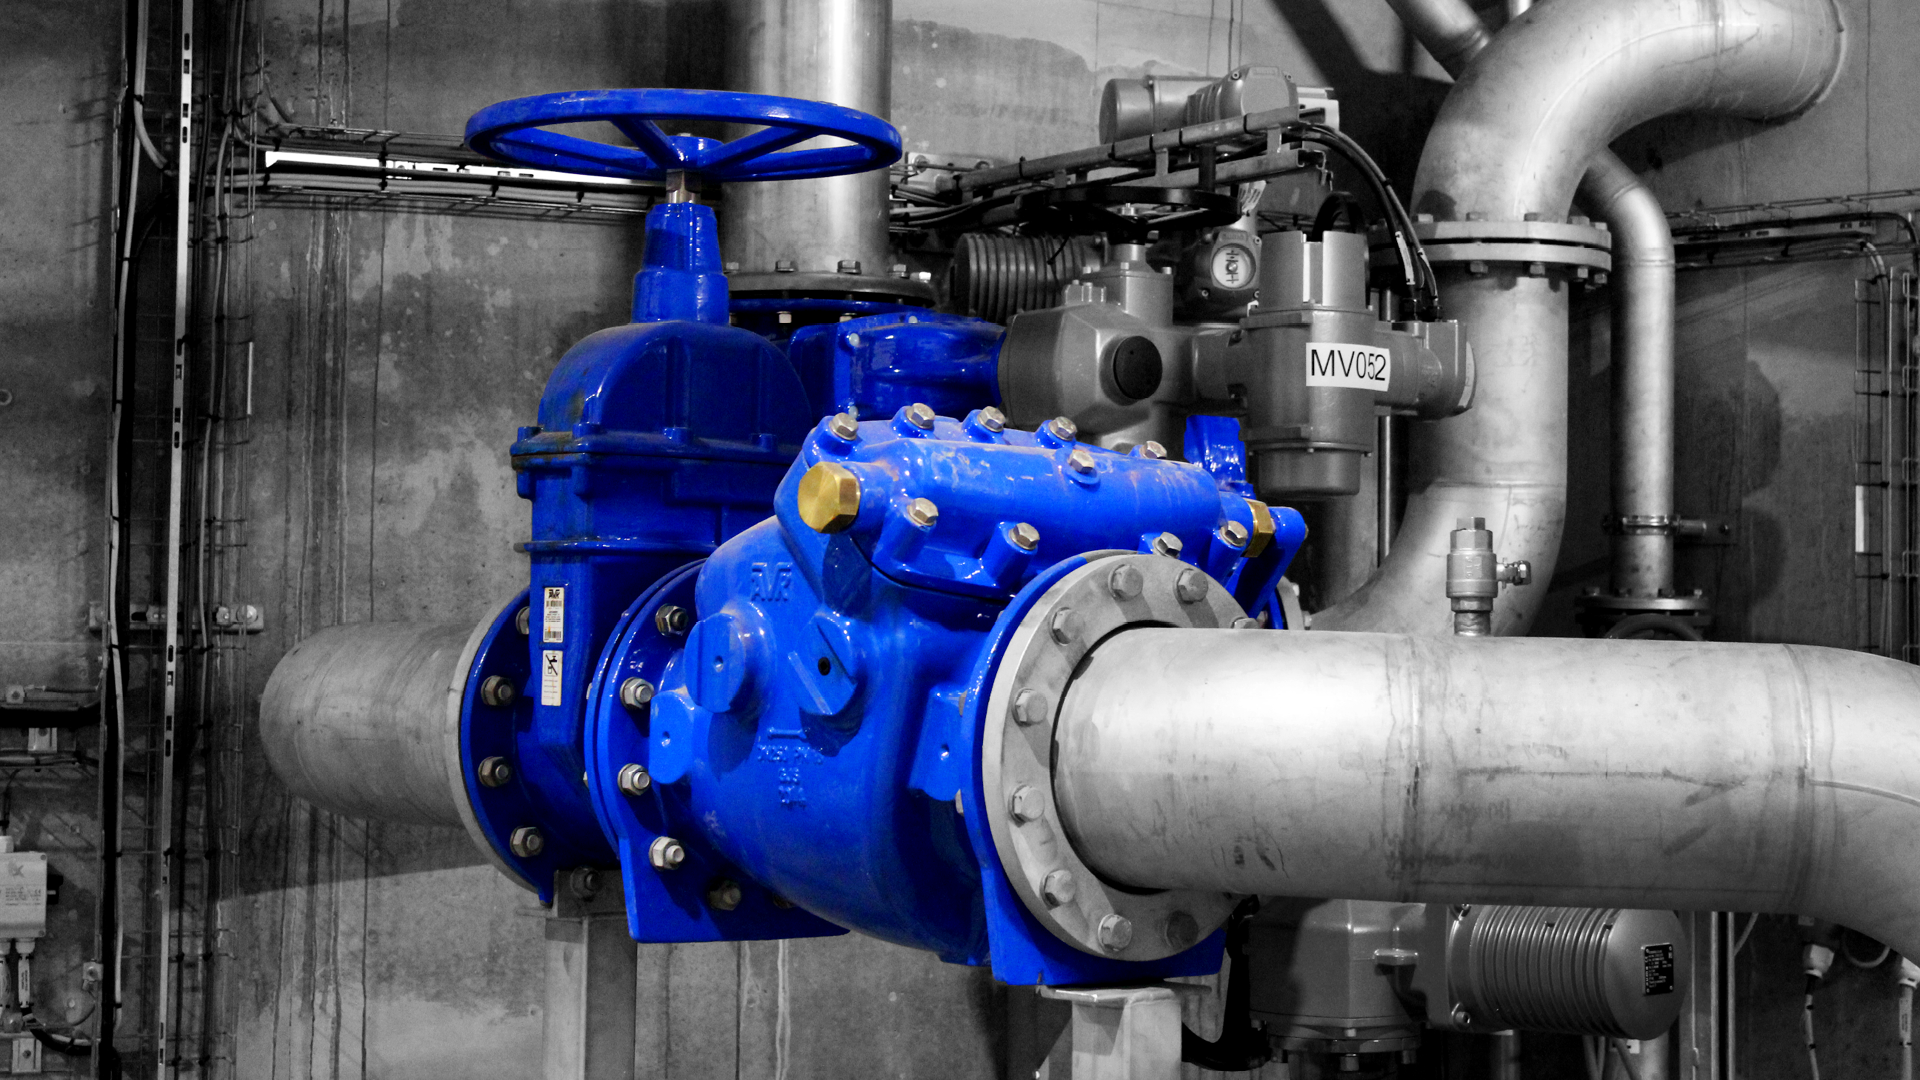
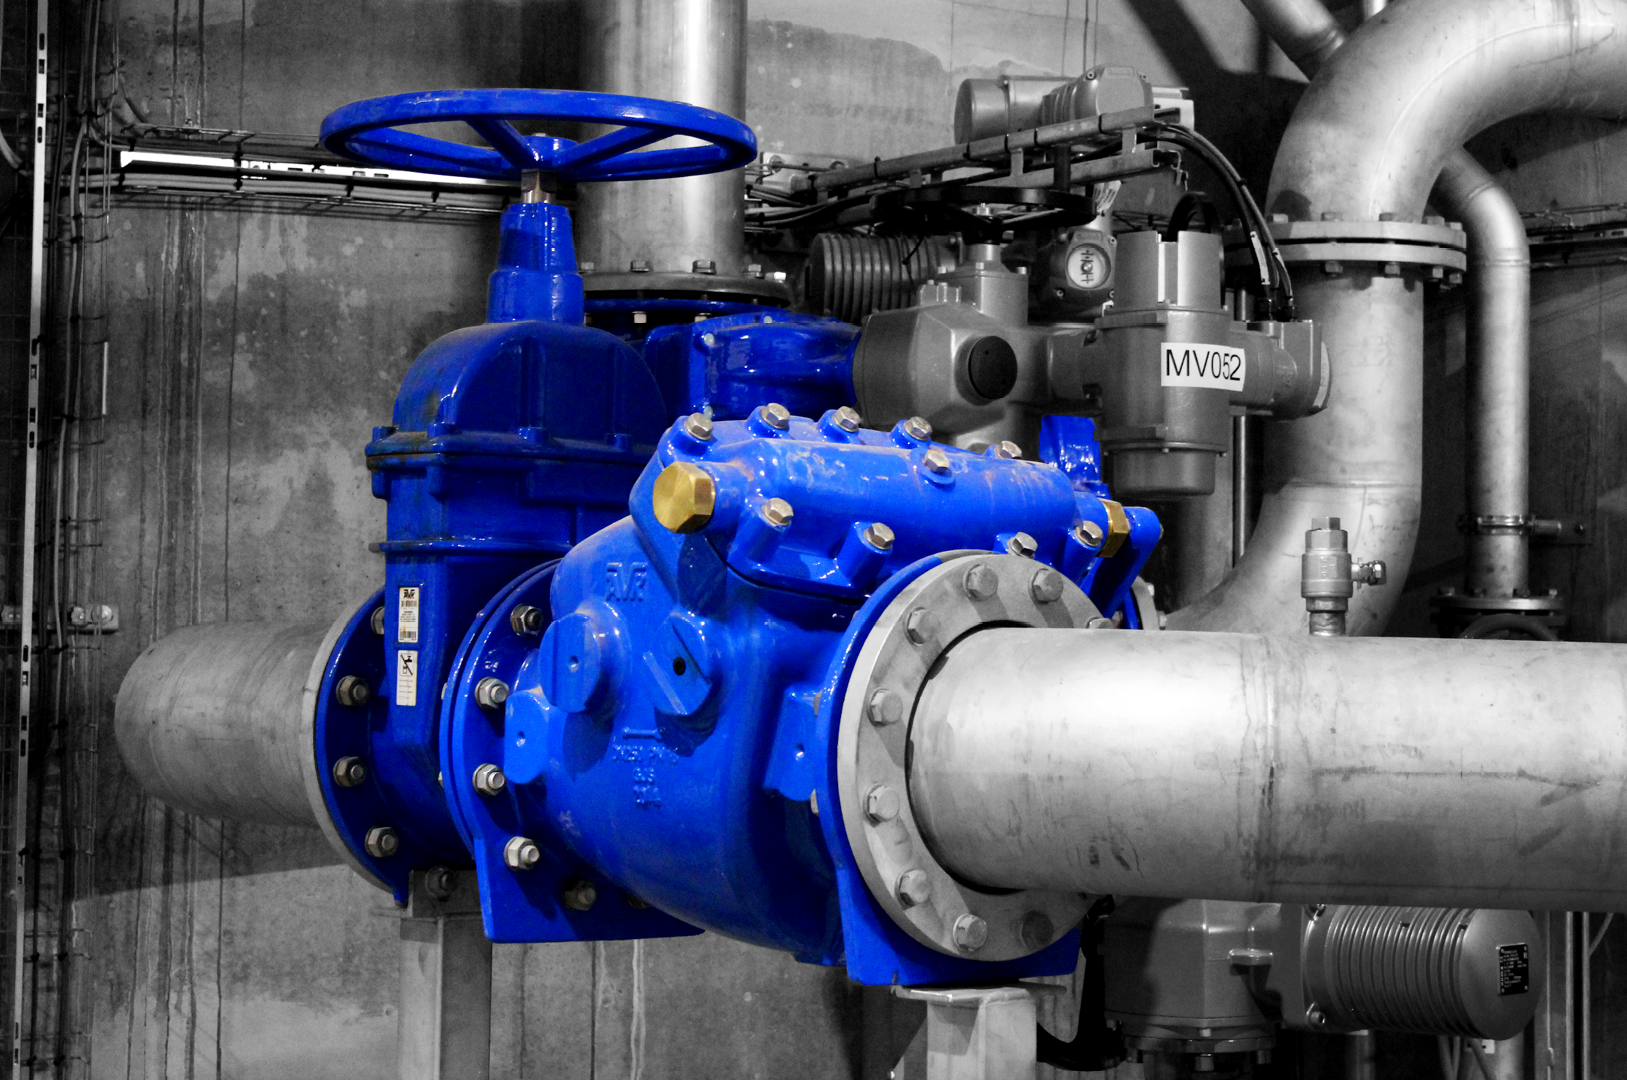
Updated hero, fixed carousal img sizing, Fixed mobile navbar

diff --git a/src/lib/emailTemplates.ts b/src/lib/emailTemplates.ts
@@ -48,14 +48,14 @@ export function applicantConfirmation({
         <style>
           body { margin: 0; padding: 0; font-family: -apple-system, BlinkMacSystemFont, 'Segoe UI', Roboto, Helvetica, Arial, sans-serif; background-color: #f4f7f6; }
           .container { max-width: 600px; margin: 0 auto; background-color: #ffffff; border-radius: 8px; overflow: hidden; box-shadow: 0 4px 15px rgba(0,0,0,0.05); }
-          .header { background-color: #0d2240; padding: 24px; text-align: center; }
+          .header { background-color: #045082; padding: 24px; text-align: center; }
           .header img { max-width: 150px; }
           .content { padding: 32px; color: #333333; }
-          .content h1 { font-size: 24px; color: #0d2240; margin-top: 0; }
+          .content h1 { font-size: 24px; color: #045082; margin-top: 0; }
           .content p { font-size: 16px; line-height: 1.6; color: #555555; }
-          .content strong { color: #ed1c24; }
+          .content strong { color: #f22d30; }
           .button-container { text-align: center; padding: 20px 0 32px; }
-          .button { background-color: #ed1c24; color: #ffffff; padding: 14px 28px; text-decoration: none; border-radius: 5px; font-weight: bold; display: inline-block; }
+          .button { background-color: #f22d30; color: #ffffff !important; padding: 14px 28px; text-decoration: none; border-radius: 5px; font-weight: bold; display: inline-block; }
           .footer { background-color: #f4f7f6; padding: 24px; text-align: center; font-size: 12px; color: #888888; }
           .footer p { margin: 4px 0; }
         </style>
@@ -108,7 +108,7 @@ export function hrNotification(data: ApplicantData) {
         <style>
           body { margin: 0; padding: 0; font-family: -apple-system, BlinkMacSystemFont, 'Segoe UI', Roboto, Helvetica, Arial, sans-serif; background-color: #f4f7f6; }
           .container { max-width: 600px; margin: 0 auto; background-color: #ffffff; border-radius: 8px; overflow: hidden; box-shadow: 0 4px 15px rgba(0,0,0,0.05); }
-          .header { background-color: #0d2240; padding: 24px; color: #ffffff; text-align: center; }
+          .header { background-color: #045082; padding: 24px; color: #ffffff; text-align: center; }
           .header h1 { font-size: 24px; margin: 0; }
           .header p { font-size: 16px; margin: 4px 0 0; opacity: 0.9; }
           .content { padding: 32px; }
@@ -116,13 +116,13 @@ export function hrNotification(data: ApplicantData) {
           .details-table th, .details-table td { text-align: left; padding: 12px; border-bottom: 1px solid #eeeeee; }
           .details-table th { color: #888888; font-weight: normal; width: 150px; }
           .details-table td { color: #333333; }
-          .details-table a { color: #ed1c24; text-decoration: none; }
+          .details-table a { color: #f22d30; text-decoration: none; }
           .details-table a:hover { text-decoration: underline; }
-          .section-title { font-size: 20px; color: #0d2240; margin-top: 0; margin-bottom: 16px; border-bottom: 2px solid #ed1c24; padding-bottom: 8px; }
+          .section-title { font-size: 20px; color: #045082; margin-top: 0; margin-bottom: 16px; border-bottom: 2px solid #f22d30; padding-bottom: 8px; }
           .about-section { margin-top: 24px; }
           .about-section p { white-space: pre-wrap; font-size: 14px; line-height: 1.6; color: #555; }
           .button-container { text-align: center; padding: 20px 0 32px; }
-          .button { background-color: #ed1c24; color: #ffffff; padding: 14px 28px; text-decoration: none; border-radius: 5px; font-weight: bold; display: inline-block; }
+          .button { background-color: #f22d30; color: #ffffff !important; padding: 14px 28px; text-decoration: none; border-radius: 5px; font-weight: bold; display: inline-block; }
           .footer { background-color: #f4f7f6; padding: 24px; text-align: center; font-size: 12px; color: #888888; }
         </style>
       </head>
@@ -183,13 +183,13 @@ export function contactAcknowledgement({ name }: { name: string }) {
         <style>
           body { margin: 0; padding: 0; font-family: -apple-system, BlinkMacSystemFont, 'Segoe UI', Roboto, Helvetica, Arial, sans-serif; background-color: #f4f7f6; }
           .container { max-width: 600px; margin: 0 auto; background-color: #ffffff; border-radius: 8px; overflow: hidden; box-shadow: 0 4px 15px rgba(0,0,0,0.05); }
-          .header { background-color: #0d2240; padding: 24px; text-align: center; }
+          .header { background-color: #045082; padding: 24px; text-align: center; }
           .header img { max-width: 150px; }
           .content { padding: 32px; color: #333333; }
-          .content h1 { font-size: 24px; color: #0d2240; margin-top: 0; }
+          .content h1 { font-size: 24px; color: #045082; margin-top: 0; }
           .content p { font-size: 16px; line-height: 1.6; color: #555555; }
           .button-container { text-align: center; padding: 20px 0 32px; }
-          .button { background-color: #ed1c24; color: #ffffff; padding: 14px 28px; text-decoration: none; border-radius: 5px; font-weight: bold; display: inline-block; }
+          .button { background-color: #f22d30; color: #ffffff !important; padding: 14px 28px; text-decoration: none; border-radius: 5px; font-weight: bold; display: inline-block; }
           .footer { background-color: #f4f7f6; padding: 24px; text-align: center; font-size: 12px; color: #888888; }
           .footer p { margin: 4px 0; }
         </style>
@@ -240,7 +240,7 @@ export function contactNotification(data: ContactData) {
         <style>
           body { margin: 0; padding: 0; font-family: -apple-system, BlinkMacSystemFont, 'Segoe UI', Roboto, Helvetica, Arial, sans-serif; background-color: #f4f7f6; }
           .container { max-width: 600px; margin: 0 auto; background-color: #ffffff; border-radius: 8px; overflow: hidden; box-shadow: 0 4px 15px rgba(0,0,0,0.05); }
-          .header { background-color: #0d2240; padding: 24px; color: #ffffff; text-align: center; }
+          .header { background-color: #045082; padding: 24px; color: #ffffff; text-align: center; }
           .header h1 { font-size: 24px; margin: 0; }
           .header p { font-size: 16px; margin: 4px 0 0; opacity: 0.9; }
           .content { padding: 32px; }
@@ -248,9 +248,9 @@ export function contactNotification(data: ContactData) {
           .details-table th, .details-table td { text-align: left; padding: 12px; border-bottom: 1px solid #eeeeee; }
           .details-table th { color: #888888; font-weight: normal; width: 120px; }
           .details-table td { color: #333333; }
-          .details-table a { color: #ed1c24; text-decoration: none; }
+          .details-table a { color: #f22d30; text-decoration: none; }
           .details-table a:hover { text-decoration: underline; }
-          .section-title { font-size: 20px; color: #0d2240; margin-top: 0; margin-bottom: 16px; border-bottom: 2px solid #ed1c24; padding-bottom: 8px; }
+          .section-title { font-size: 20px; color: #045082; margin-top: 0; margin-bottom: 16px; border-bottom: 2px solid #f22d30; padding-bottom: 8px; }
           .message-section { margin-top: 24px; }
           .message-section p { white-space: pre-wrap; font-size: 14px; line-height: 1.6; color: #555; background-color: #f9f9f9; padding: 16px; border-radius: 5px; }
           .footer { background-color: #f4f7f6; padding: 24px; text-align: center; font-size: 12px; color: #888888; }

diff --git a/src/components/Hero.tsx b/src/components/Hero.tsx
@@ -1,39 +1,79 @@
-import dynamic from "next/dynamic";
+"use client";
 
-// Lazy-load ValveViewer only on client side
-const ValveViewer = dynamic(() => import("./ValveViewer"), { ssr: false });
+import GradientCanvas from "./GradientCanvas";
+// import dynamic from "next/dynamic";
+// const ValveViewer = dynamic(() => import("./ValveViewer"), { ssr: false });
 
 export default function Hero() {
   return (
+    <section
+      className="relative min-h-[90vh] w-full flex items-center overflow-hidden px-4 sm:px-8 py-12 sm:py-20"
+      style={{
+        background: "#f3f6f9",
+        position: "relative",
+      }}
+    >
+      {/* Animated Gradient BG */}
+      <div
+        className="absolute inset-0 w-full h-full z-0"
+        aria-hidden="true"
+      >
+        <GradientCanvas />
+      </div>
 
-    <section className="bg-[#1E293B] text-white min-h-[90vh] px-6 md:px-12 py-16 flex items-center">
-      <div className="max-w-7xl mx-auto grid grid-cols-1 md:grid-cols-2 gap-12 items-center w-full">
+      <div className="max-w-7xl mx-auto grid grid-cols-1 md:grid-cols-2 gap-12 items-center w-full relative z-10">
         {/* Left: Text Content */}
-        <div className="text-center md:text-left">
-          <h1 className="text-3xl sm:text-4xl md:text-5xl font-bold mb-4 leading-tight text-white">
+        <div className="text-left">
+          <h1
+            className="text-3xl sm:text-4xl md:text-5xl font-bold mb-4 leading-tight"
+            style={{
+              color: "#f3f6f9",
+              textShadow: "0 3px 18px #003b71, 0 1px 4px #e41f2666",
+            }}
+          >
             Seamless Innovation in Pipeline Solutions
           </h1>
-          <p className="text-sm sm:text-base md:text-lg text-gray-300 mb-6 leading-relaxed max-w-xl mx-auto md:mx-0">
+          <p
+            className="text-base sm:text-lg md:text-xl mb-6 leading-relaxed max-w-xl mx-0"
+            style={{
+              color: "#f3f6f9",
+              textShadow: "0 2px 16px #003b7199, 0 1px 4px #e41f2633",
+            }}
+          >
             GC International delivers high-performance valve, flange, and flow
             control systems to industrial sectors across the Middle East and
             beyond.
           </p>
-          <div className="flex flex-col sm:flex-row gap-4 justify-center md:justify-start">
+          <div className="flex flex-col sm:flex-row gap-4 justify-start">
             <a
               href="/contact"
-              className="bg-[#ED1C24] hover:bg-[#C70E15] text-white px-6 py-3 rounded-full font-medium shadow transition"
+              className="
+                w-40 px-2 py-2 text-base
+                sm:w-auto sm:px-6 sm:py-3 sm:text-lg
+                rounded-full font-medium shadow transition
+                bg-white/80 hover:bg-white text-[#e41f26] hover:text-white
+                border-2 border-[#e41f26] hover:bg-[#e41f26]
+                focus:outline-none focus:ring-2 focus:ring-offset-2 focus:ring-[#e41f26]
+                text-center
+              "
+              style={{
+                fontWeight: 600,
+                boxShadow: "0 4px 18px 0 #003b7122, 0 2px 8px 0 #e41f2622",
+              }}
             >
               Get in Touch
             </a>
           </div>
         </div>
 
-        {/* Right: Valve Model (lazy-loaded, hidden on small screens) */}
+        {/* Right: Valve Model (optional, enable when ready) */}
+        {/*
         <div className="hidden md:flex justify-center items-center">
-          <div className="w-[180px] h-[180px] sm:w-[220px] sm:h-[220px] md:w-[260px] md:h-[260px] lg:w-[300px] lg:h-[300px] xl:w-[320px] xl:h-[320px]">
+          <div className="w-[180px] sm:w-[220px] md:w-[260px] lg:w-[300px] xl:w-[320px] aspect-square">
             <ValveViewer />
           </div>
         </div>
+        */}
       </div>
     </section>
   );

diff --git a/src/components/GradientCanvas.tsx b/src/components/GradientCanvas.tsx
@@ -1,0 +1,86 @@
+"use client";
+
+import { useEffect, useRef } from "react";
+
+export default function GradientCanvas() {
+  const canvasRef = useRef<HTMLCanvasElement>(null);
+
+  useEffect(() => {
+    const canvas = canvasRef.current!;
+    const ctx = canvas.getContext("2d")!;
+    let raf: number;
+
+    function resize() {
+      const dpr = window.devicePixelRatio || 1;
+      const { width, height } = canvas.getBoundingClientRect();
+      canvas.width = width * dpr;
+      canvas.height = height * dpr;
+      ctx.setTransform(1, 0, 0, 1, 0, 0);
+      ctx.scale(dpr, dpr);
+    }
+
+    let t = 0;
+    function draw() {
+      resize();
+      const w = canvas.width / (window.devicePixelRatio || 1);
+      const h = canvas.height / (window.devicePixelRatio || 1);
+
+      t += 0.6;
+      ctx.clearRect(0, 0, w, h);
+
+      // "Bold & Dark" color scheme
+      const grad = ctx.createLinearGradient(
+        Math.cos(t * 0.008) * w * 0.3 + w * 0.5,
+        0,
+        w,
+        Math.sin(t * 0.012) * h * 0.3 + h * 0.7
+      );
+      grad.addColorStop(0.00, "#e41f26");   // Red
+      grad.addColorStop(0.28, "#1570EF");   // Lively blue accent
+      grad.addColorStop(0.52, "#003b71");   // Deep company blue
+      grad.addColorStop(0.74, "#f3f6f9");   // White/gray for softness
+      grad.addColorStop(1.00, "#e41f26");   // Red (loop)
+
+      // Curved/slanted bottom cut
+      ctx.save();
+      ctx.beginPath();
+      ctx.moveTo(0, 0);
+      ctx.lineTo(w, 0);
+      ctx.lineTo(w, h * 0.60);
+      ctx.quadraticCurveTo(
+        w * 0.5,
+        h * 0.75 + Math.sin(t * 0.01) * 32,
+        0,
+        h * 0.82
+      );
+      ctx.closePath();
+      ctx.clip();
+
+      ctx.fillStyle = grad;
+      ctx.fillRect(0, 0, w, h);
+      ctx.restore();
+
+      raf = requestAnimationFrame(draw);
+    }
+
+    draw();
+    return () => cancelAnimationFrame(raf);
+  }, []);
+
+  return (
+    <canvas
+      ref={canvasRef}
+      style={{
+        position: "absolute",
+        inset: 0,
+        width: "100%",
+        height: "100%",
+        display: "block",
+        zIndex: 0,
+        pointerEvents: "none",
+      }}
+      aria-hidden="true"
+      tabIndex={-1}
+    />
+  );
+}

diff --git a/src/components/navbar.tsx b/src/components/navbar.tsx
@@ -41,8 +41,23 @@ export default function Navbar() {
             </span>
           </a>
 
+          {/* GC International Centered on Mobile */}
+          <div className="md:hidden absolute left-1/2 transform -translate-x-1/2">
+            <span
+              className="font-extrabold text-lg tracking-tight"
+              style={{
+                letterSpacing: "0.02em",
+                fontFamily: "inherit",
+                whiteSpace: "nowrap",
+                color: "#1e3a8a",
+              }}
+            >
+              GC International
+            </span>
+          </div>
+
           {/* Desktop Nav */}
-          <ul className="hidden md:flex gap-8 font-medium text-blue-800">
+          <ul className="hidden md:flex gap-8 font-medium text-[#1e3a8a]">
             {links.map((link) => {
               const isActive =
                 path &&
@@ -95,6 +110,21 @@ export default function Navbar() {
         >
           ✕
         </button>
+
+        {/* GC International Centered in Mobile Menu */}
+        <div className="absolute top-6 left-1/2 transform -translate-x-1/2">
+          <span
+            className="font-extrabold text-2xl tracking-tight"
+            style={{
+              letterSpacing: "0.02em",
+              fontFamily: "inherit",
+              whiteSpace: "nowrap",
+              color: "#1e3a8a",
+            }}
+          >
+            GC International
+          </span>
+        </div>
 
         {/* Menu content */}
         <div className="flex flex-col gap-6 items-center justify-center h-full text-xl font-semibold tracking-wide">
